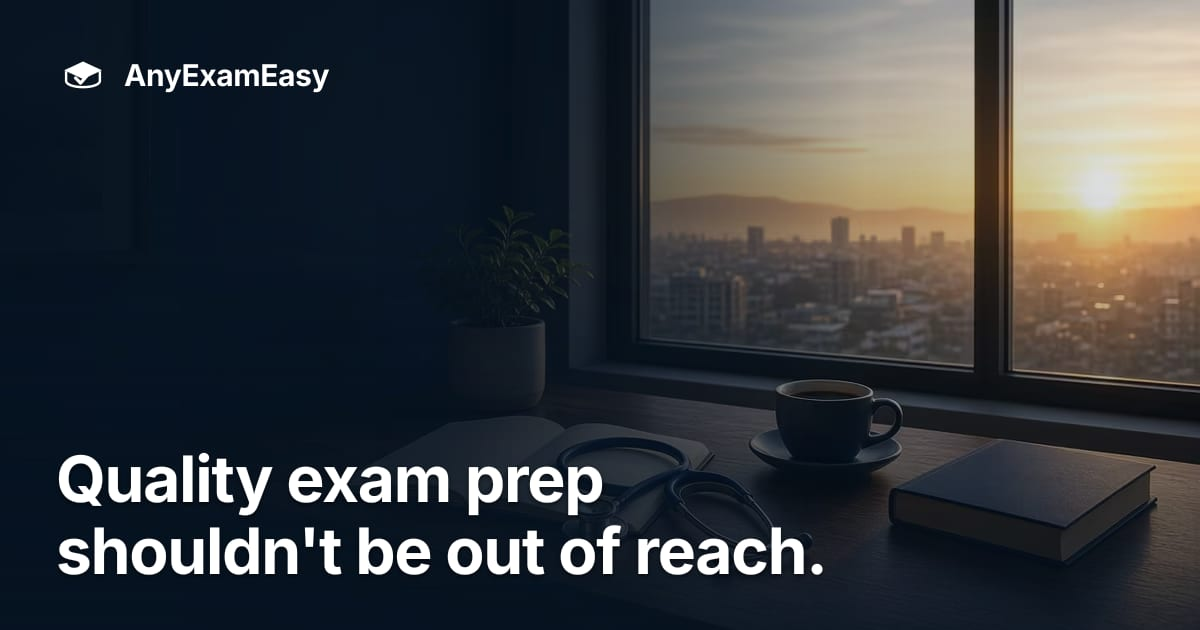
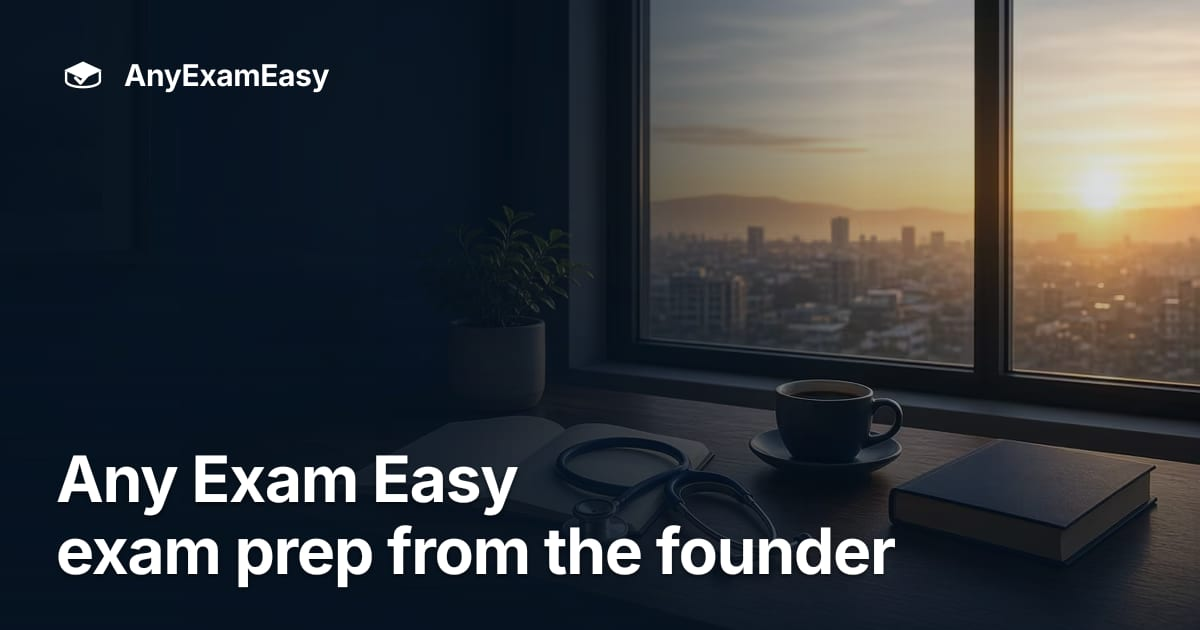
Point the About page at exam-prep and founder search intent.
The single H1 names Any Exam Easy, the title and description stay inside the tighter meta limits, and every board page links back to About and the daily question.

Changed region(s): [[0.0308, 0.7238, 0.74, 0.9349]]

diff --git a/src/lib/seo/landing-og-image.test.ts b/src/lib/seo/landing-og-image.test.ts
@@ -74,6 +74,18 @@ describe("landing share images", () => {
     expect(landingOgImage("home").alt).toBe(HOME_PRACTICE_HEADLINE);
     expect(landingOgImage("about").alt).toBe(ABOUT_HERO_HEADLINE);
     expect(landingOgImage("about").alt.toLowerCase()).not.toMatch(/\bpass\b/);
+    expect(ABOUT_HERO_HEADLINE).toMatch(/Any Exam Easy/);
+    expect(ABOUT_HERO_HEADLINE.toLowerCase()).toMatch(/exam prep/);
+    expect(ABOUT_HERO_HEADLINE.toLowerCase()).toMatch(/founder/);
+    const aboutTitle = buildAboutMetadata().title;
+    const aboutTitleText =
+      typeof aboutTitle === "object" && aboutTitle && "absolute" in aboutTitle
+        ? String(aboutTitle.absolute)
+        : String(aboutTitle);
+    const aboutDescription = String(buildAboutMetadata().description);
+    expect(aboutTitleText.length).toBeLessThanOrEqual(60);
+    expect(aboutDescription.length).toBeLessThanOrEqual(155);
+    expect(aboutDescription.length).toBeGreaterThanOrEqual(140);
     expect(imageUrl(buildAboutMetadata())).toBe(
       `${LANDING_OG_ORIGIN}/images/og/about.jpg?v=${LANDING_OG_VERSION}`
     );

diff --git a/src/styles/about-page.css b/src/styles/about-page.css
@@ -143,13 +143,12 @@ body:has(.aee-about) {
   font-size: 1.2rem;
 }
 
-.aee-about-kicker {
-  margin: 0 0 0.4rem;
-  color: #0f766e;
-  font-size: 0.75rem;
+.aee-about-byline {
+  margin: 0.45rem 0 0;
+  color: #0f172a;
+  font-size: 1.125rem;
   font-weight: 700;
-  letter-spacing: 0.14em;
-  text-transform: uppercase;
+  line-height: 1.3;
 }
 
 .aee-about-prose {
@@ -371,9 +370,9 @@ body:has(.aee-about) {
     color: #cbd5e1;
   }
 
-  :root:not([data-theme="light"]) .aee-about-kicker,
+  :root:not([data-theme="light"]) .aee-about-byline,
   :root:not([data-theme="light"]) .aee-about-pull {
-    color: #5eead4;
+    color: #f8fafc;
     border-color: #5eead4;
   }
 
@@ -434,9 +433,9 @@ body:has(.aee-about) {
   color: #cbd5e1;
 }
 
-[data-theme="dark"] .aee-about-kicker,
+[data-theme="dark"] .aee-about-byline,
 [data-theme="dark"] .aee-about-pull {
-  color: #5eead4;
+  color: #f8fafc;
   border-color: #5eead4;
 }
 

diff --git a/src/lib/marketing/about-copy.ts b/src/lib/marketing/about-copy.ts
@@ -1,9 +1,9 @@
-/** About hero headline. Ryan's line. No pass claim. */
-export const ABOUT_HERO_HEADLINE = "Quality exam prep shouldn't be out of reach.";
+/** One H1: brand, exam-prep intent, and founder intent. No pass claim. */
+export const ABOUT_HERO_HEADLINE = "Any Exam Easy exam prep from the founder";
 
-export const ABOUT_HERO_LEAD = "Quality exam prep";
+export const ABOUT_HERO_LEAD = "Any Exam Easy";
 
-export const ABOUT_HERO_ACCENT = "shouldn't be out of reach.";
+export const ABOUT_HERO_ACCENT = "exam prep from the founder";
 
 /** Pull quote lifted from the founder story. The paragraph keeps the sentence too. */
 export const ABOUT_PULL_QUOTE = "This is my gift to my former self.";

diff --git a/src/app/(marketing)/(with-flagship)/about/page.tsx b/src/app/(marketing)/(with-flagship)/about/page.tsx
@@ -109,8 +109,8 @@ export default async function AboutPage() {
 
         <section className="aee-about-band aee-about-story" aria-labelledby="about-story-heading">
           <div className="aee-about-band__inner">
-            <p className="aee-about-kicker">From the founder</p>
-            <h2 id="about-story-heading">Ryan Chishimba, PharmD, RPh</h2>
+            <h2 id="about-story-heading">From the founder</h2>
+            <p className="aee-about-byline">Ryan Chishimba, PharmD, RPh</p>
             {opening.map((paragraph) => (
               <p key={paragraph.slice(0, 24)} className="aee-about-prose">
                 {paragraph}

diff --git a/src/lib/seo/marketing-metadata.ts b/src/lib/seo/marketing-metadata.ts
@@ -204,9 +204,9 @@ export function buildCompareJsonLd() {
   };
 }
 
-const ABOUT_TITLE = `About ${SITE_NAME} — 6-Board Qbank`;
+const ABOUT_TITLE = "Any Exam Easy Exam Prep from the Founder";
 const ABOUT_DESCRIPTION =
-  "Independent NCLEX and USMLE Qbank plus NAPLEX, PANCE, FNP and NPTE on one Pro plan. QA-gated items with Roadmap, Deep Dives, and sources when stored.";
+  "Any Exam Easy exam prep from founder Ryan Chishimba, PharmD. One plan for NCLEX, NAPLEX, USMLE, PANCE, FNP, and NPTE-PT. Start a 5-day free trial.";
 
 export function buildAboutMetadata(serveReadyTotalLabel?: string): Metadata {
   const title = ABOUT_TITLE;

diff --git a/src/components/marketing/board-landing/BoardLandingHero.tsx b/src/components/marketing/board-landing/BoardLandingHero.tsx
@@ -1,3 +1,4 @@
+import Link from "next/link";
 import { BoardHeroFoot } from "@/components/marketing/board-landing/BoardHeroFoot";
 import { MarketingHeroActions } from "@/components/marketing/MarketingHeroActions";
 import {
@@ -65,6 +66,11 @@ export function BoardLandingHero({
           }
         />
       </MarketingPhotoHero>
+      <nav className="bl-band bl-band--stats" aria-label="Any Exam Easy">
+        <Link href="/about">About Any Exam Easy</Link>
+        <span aria-hidden> · </span>
+        <Link href="/daily">Free daily practice question</Link>
+      </nav>
       {trail}
     </>
   );

diff --git a/src/components/Footer.tsx b/src/components/Footer.tsx
@@ -6,6 +6,7 @@ import { MARKETING_BOARD_LINKS, ROUTES } from "@/lib/routes";
 import { formatPricingCheckoutTrialOffer, MARKETING_DISCLAIMER } from "@/lib/site";
 
 const EXPLORE_LINKS = [
+  { href: "/daily", label: "Question of the Day" },
   { href: ROUTES.blog, label: "Blog" },
   { href: ROUTES.freeGuides, label: "Free Guides" },
   { href: ROUTES.pricing, label: "Pricing" },
